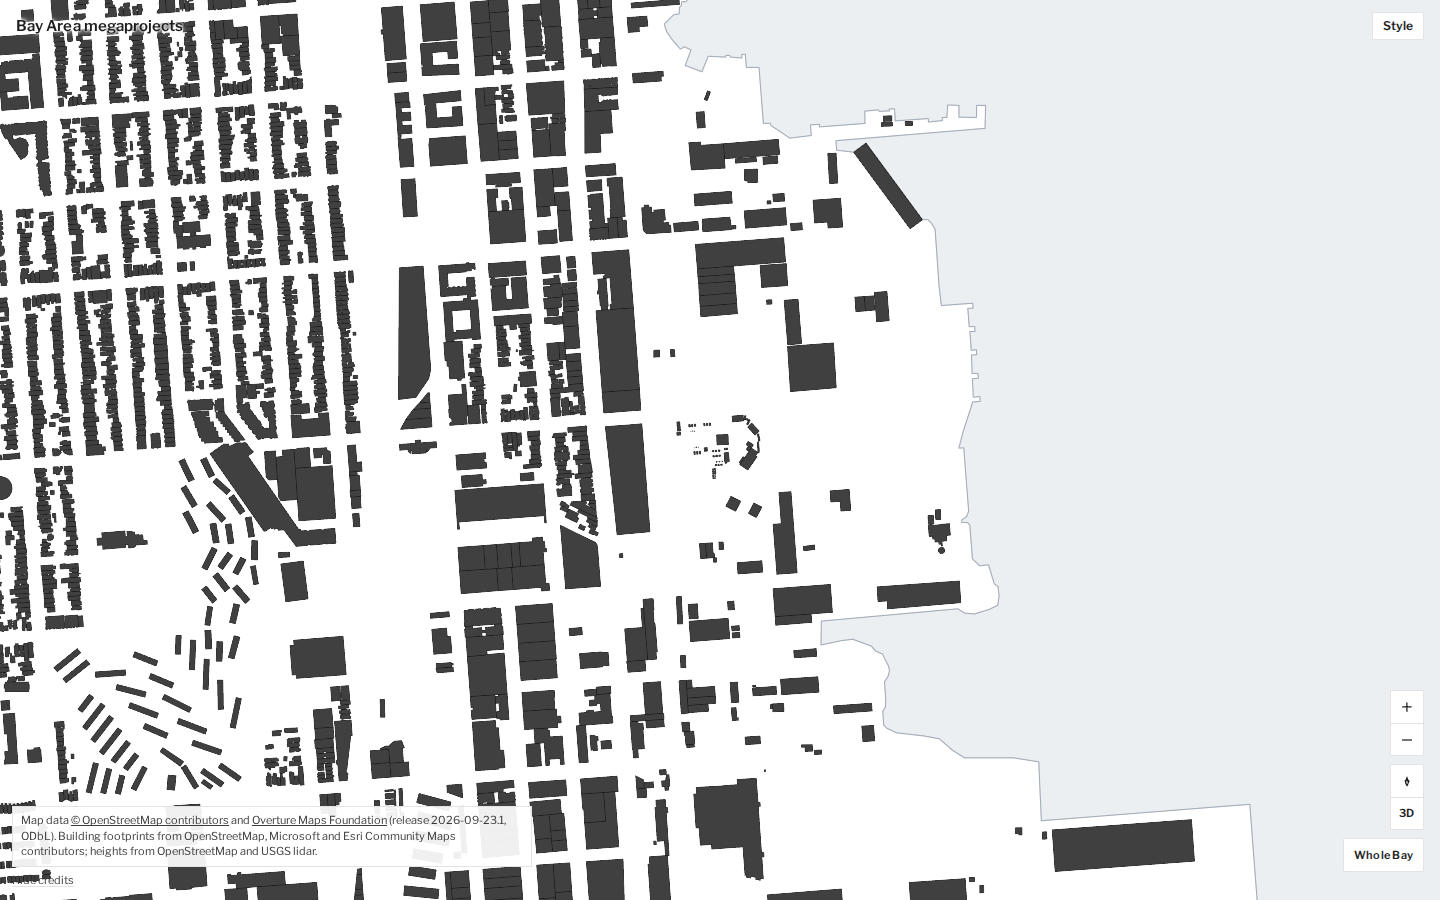
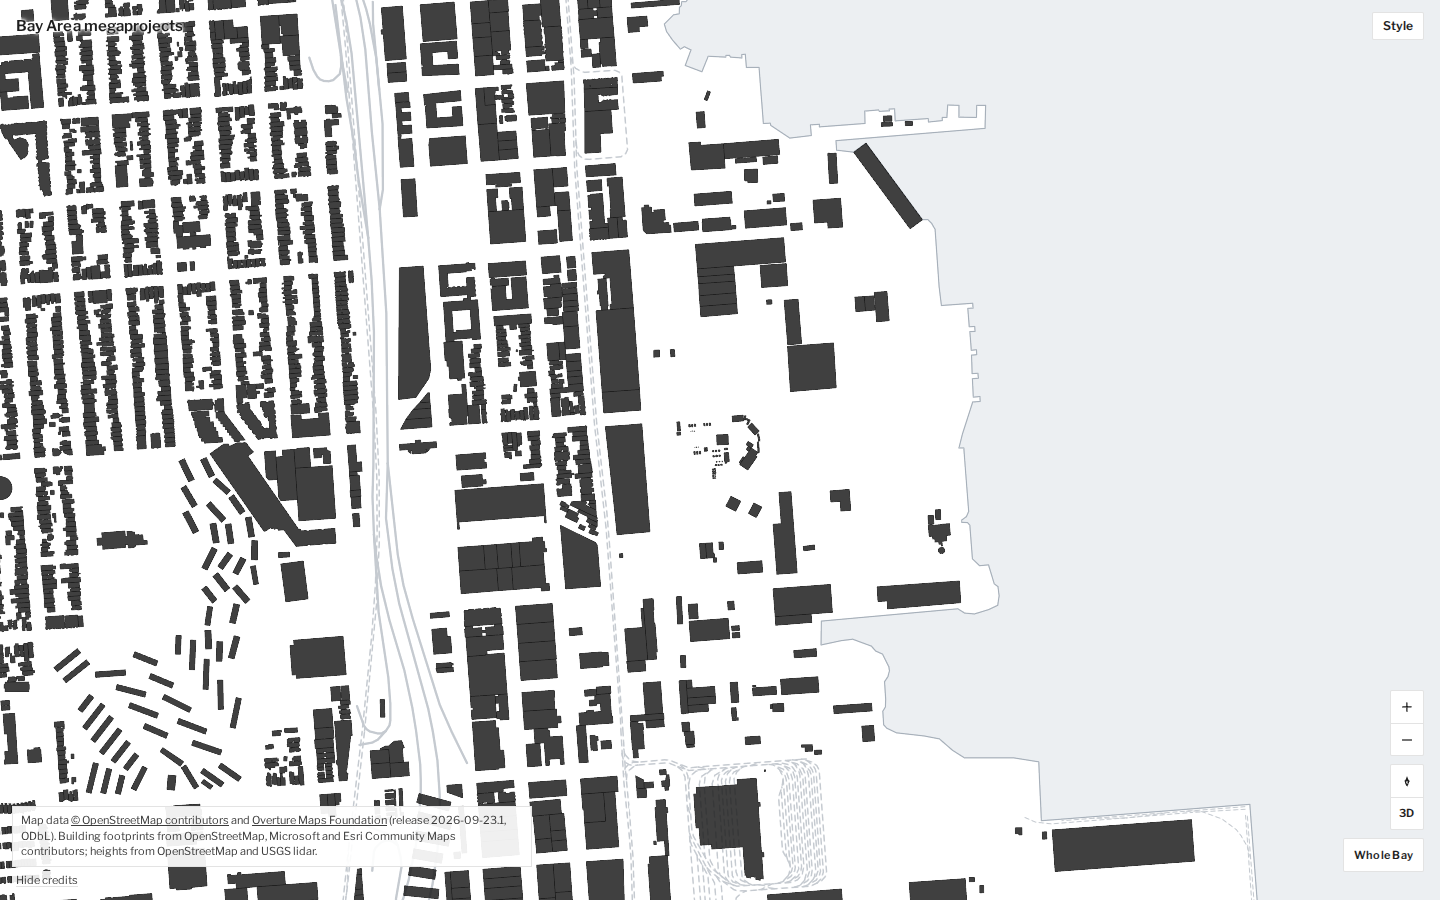
Retake checkpoint screenshots with context lines on
Claude-Session: https://claude.ai/code/session_016VJVJfAh3hq9HfWnSkFL7B

diff --git a/tests/screenshots.spec.ts b/tests/screenshots.spec.ts
@@ -39,7 +39,8 @@ const SHOTS: Shot[] = [
   },
   { name: 'options/c-salt-ponds-as-water', path: '/?test=1&salt=1#map=11/37.47/-122.05' },
   { name: 'options/c-salt-ponds-as-land', path: '/?test=1&salt=0#map=11/37.47/-122.05' },
-  { name: 'options/d-context-lines-on', path: '/?test=1&context=1#map=10.6/37.79/-122.30' },
+  { name: 'options/d-context-lines-off', path: '/?test=1&context=0#map=10.6/37.79/-122.30' },
+  { name: '09-oakland-context-z13', path: '/?test=1#map=13.2/37.805/-122.29' },
   { name: 'options/e-outside-region-tint-on', path: '/?test=1&mask=1#map=8.6/38.05/-121.75' },
   { name: 'options/e-outside-region-tint-off', path: '/?test=1&mask=0#map=8.6/38.05/-121.75' },
 ];
